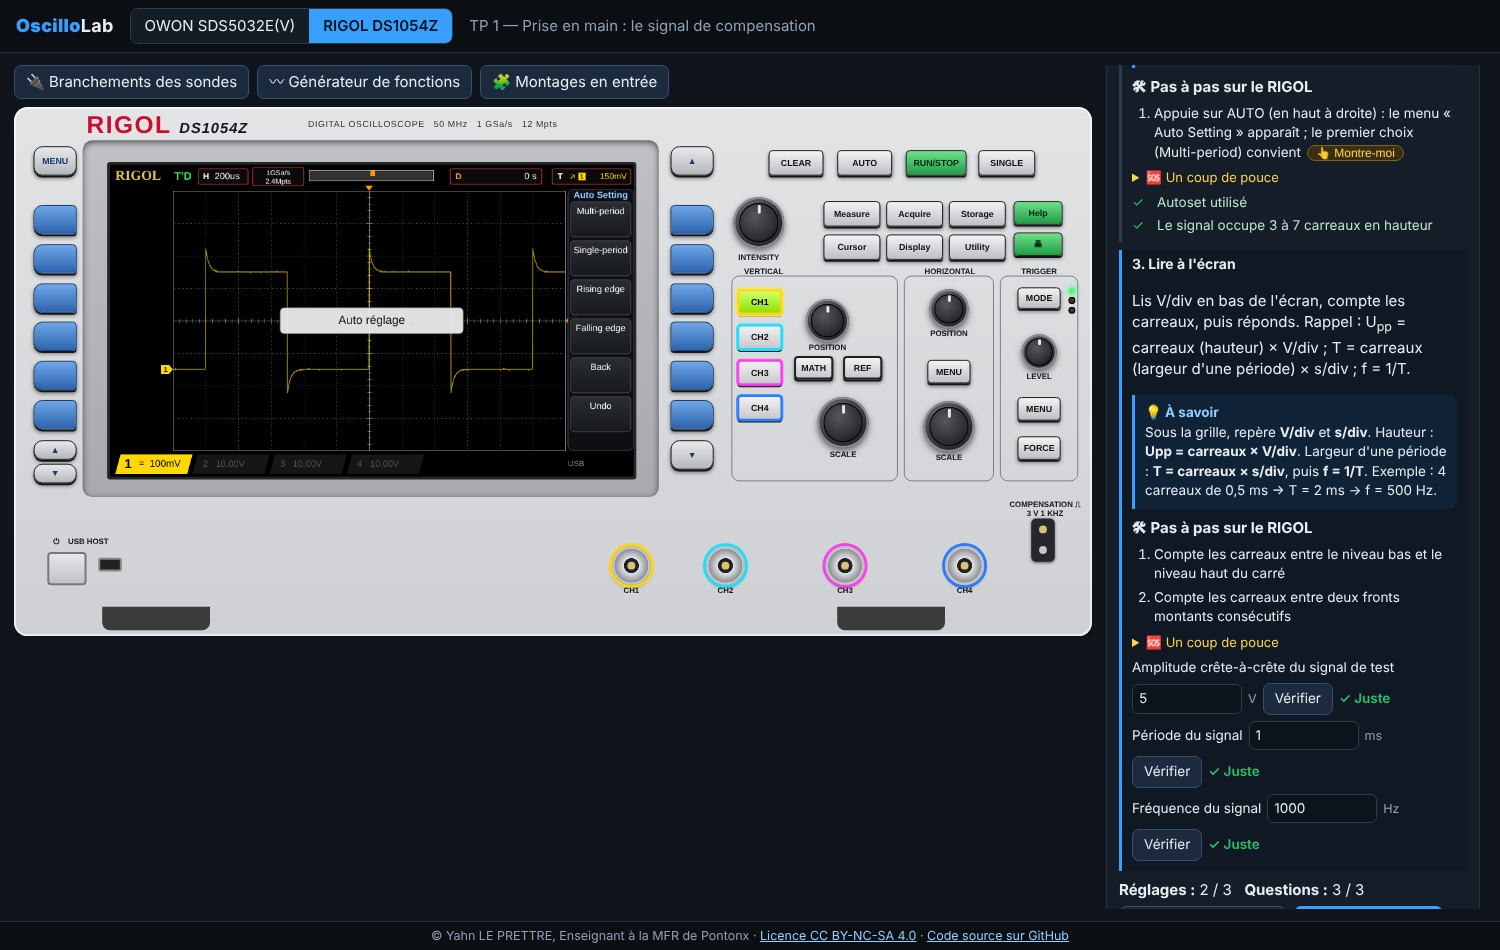
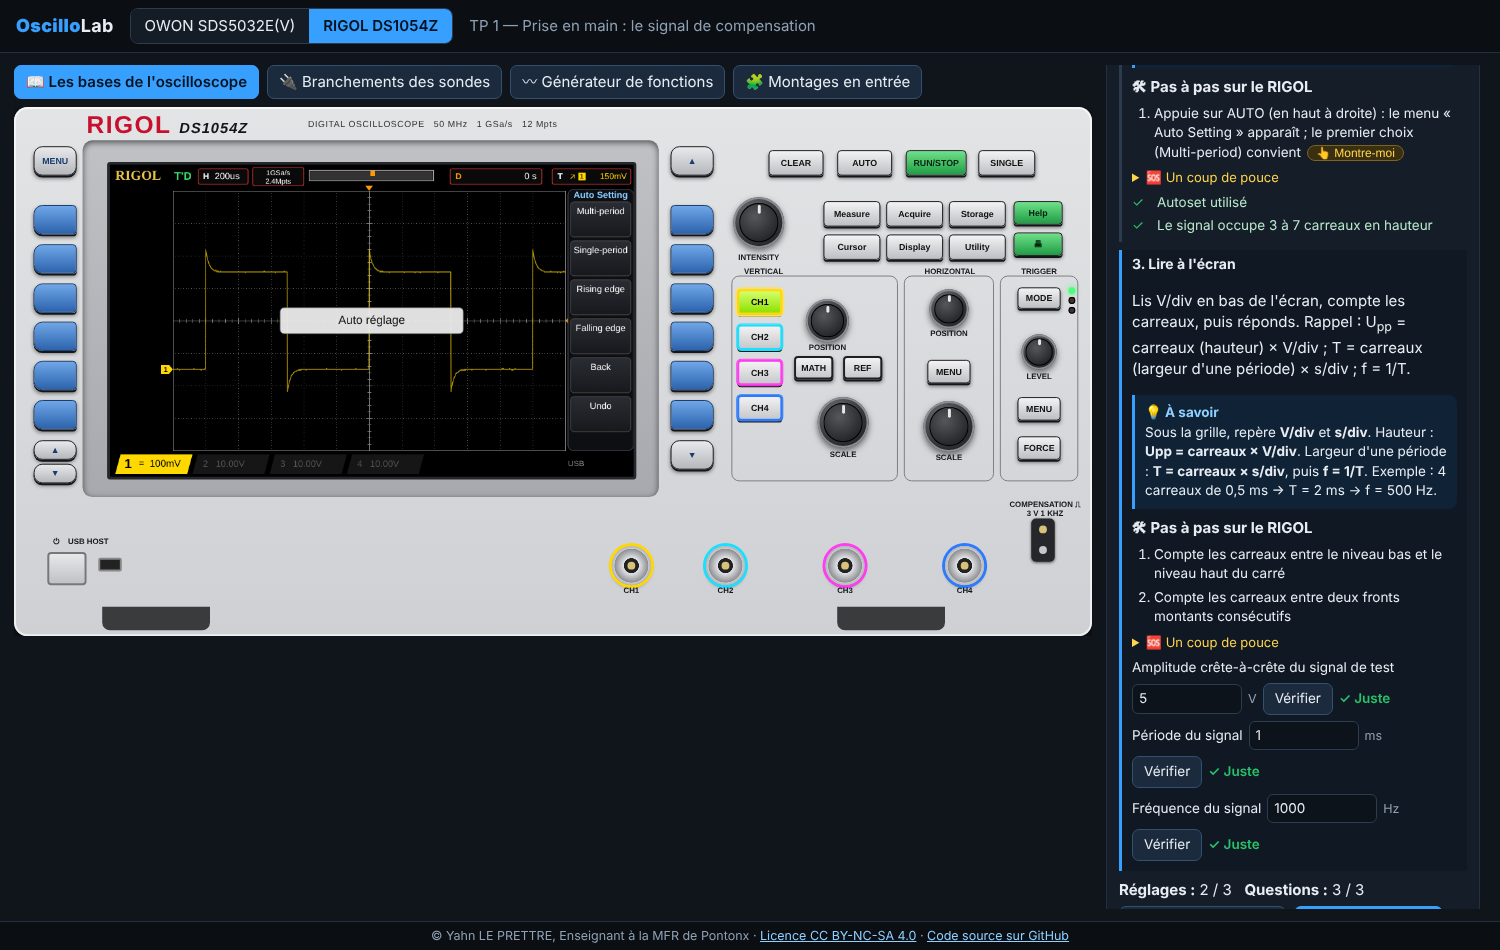
Les bases de l'oscilloscope : bouton dans la barre au-dessus de l'oscilloscope et en haut de la liste des TP
Claude-Session: https://claude.ai/code/session_018Ln2Xo12prChdSPrkdSn9D

Changed region(s): [[0.0, 0.0611, 0.6133, 0.1221]]

diff --git a/dist/oscillolab.html b/dist/oscillolab.html
@@ -136,7 +136,7 @@ details.hint { margin:6px 0; font-size:13px; } details.hint summary { cursor:poi
 <header class="top"><h1><b>Oscillo</b>Lab</h1>
 <div class="seg" id="devSeg"><button data-d="owon" class="on">OWON SDS5032E(V)</button><button data-d="rigol">RIGOL DS1054Z</button></div>
 <span id="tpName" style="color:#8fa0b3"></span></header>
-<main><div><div id="benchBar"><button class="btn" data-p="wire">🔌 Branchements des sondes</button><button class="btn" data-p="gbf">〰 Générateur de fonctions</button><button class="btn" data-p="mont">🧩 Montages en entrée</button></div>
+<main><div><div id="benchBar"><button class="btn pri" data-a="lessons">📖 Les bases de l'oscilloscope</button><button class="btn" data-p="wire">🔌 Branchements des sondes</button><button class="btn" data-p="gbf">〰 Générateur de fonctions</button><button class="btn" data-p="mont">🧩 Montages en entrée</button></div>
 <div id="benchPop"><div data-p="wire"></div><div data-p="gbf"></div><div data-p="mont"></div></div>
 <div id="scopeWrap"><div id="scopeBox"></div></div></div>
 <aside id="side"><div id="tpPane"></div></aside></main>
@@ -1728,11 +1728,13 @@ OL.TPUI = function (parent, App) {
 };
 OL.TPUI.prototype.list = function () {
   const T = this, r = T.root; r.innerHTML = ''; T.cur = null; document.getElementById('tpName').textContent = '';
-  const c = E('div', 'card', r); E('h3', '', c, null, 'Travaux pratiques'); const L = E('div', 'tplist', c);
+  const c = E('div', 'card', r); E('h3', '', c, null, 'Travaux pratiques');
+  const top = E('div', 'row', c);
+  const ls = E('button', 'btn pri', top, null, '📖 Les bases de l\'oscilloscope (à lire avant le TP 1)'); ls.addEventListener('click', () => T.lessons());
+  const f = E('button', 'btn', top, null, 'Mode libre (tous les montages)');  f.addEventListener('click', () => { T.App.free(); });
+  const L = E('div', 'tplist', c);
   OL.TPS.forEach(tp => { const b = E('button', 'btn' + (T.done[tp.id] ? ' done' : ''), L, null, '<b>' + tp.n + '.</b> ' + tp.title + ' <span class="hint">— ' + tp.level + '</span>'); b.addEventListener('click', () => T.open(tp)); });
   E('div', 'hint', c, null, 'Chaque TP règle le banc d\'essai pour toi. Les cases se cochent toutes seules quand l\'oscilloscope est bien réglé ; les questions se corrigent automatiquement.');
-  const ls = E('button', 'btn pri', c, null, '📖 Les bases de l\'oscilloscope (à lire avant le TP 1)'); ls.style.marginTop = '8px'; ls.addEventListener('click', () => T.lessons());
-  const f = E('button', 'btn', c, null, 'Mode libre (tous les montages)'); f.style.marginLeft = '8px'; f.addEventListener('click', () => { T.App.free(); });
 };
 OL.TPUI.prototype.lessons = function () {
   const T = this, r = T.root; r.innerHTML = ''; T.cur = null; T.checkEls = [];
@@ -2215,13 +2217,14 @@ function loop(now) {
 g.addEventListener('DOMContentLoaded', () => {
   document.querySelectorAll('#devSeg button').forEach(b => b.addEventListener('click', () => { App.build(b.dataset.d, App.tp, App.seed); if (App.tp) App.tpui.render(); }));
   g.addEventListener('resize', () => App.fit());
-  const pop = $('#benchPop'); const show = k => { pop.classList.toggle('open', !!k); pop.querySelectorAll(':scope > div').forEach(d => { d.style.display = d.dataset.p === k ? '' : 'none'; }); document.querySelectorAll('#benchBar button').forEach(b => b.classList.toggle('pri', b.dataset.p === k)); App.pop = k; };
-  document.querySelectorAll('#benchBar button').forEach(b => b.addEventListener('click', e => { e.stopPropagation(); show(App.pop === b.dataset.p ? null : b.dataset.p); }));
+  const pop = $('#benchPop'); const show = k => { pop.classList.toggle('open', !!k); pop.querySelectorAll(':scope > div').forEach(d => { d.style.display = d.dataset.p === k ? '' : 'none'; }); document.querySelectorAll('#benchBar button[data-p]').forEach(b => b.classList.toggle('pri', b.dataset.p === k)); App.pop = k; };
+  document.querySelectorAll('#benchBar button[data-p]').forEach(b => b.addEventListener('click', e => { e.stopPropagation(); show(App.pop === b.dataset.p ? null : b.dataset.p); }));
   /* fenêtre déplaçable (par son titre) : on peut la ranger sur le côté pour garder l'écran visible */
   let drag = null;
   pop.addEventListener('pointerdown', e => { const h = e.target.closest('h3'); if (!h) return; const box = h.closest('#benchPop > div'); drag = { box, x: e.clientX, y: e.clientY, l: box.offsetLeft, t: box.offsetTop }; h.setPointerCapture(e.pointerId); h.style.cursor = 'grabbing'; });
   pop.addEventListener('pointermove', e => { if (!drag) return; drag.box.style.left = (drag.l + e.clientX - drag.x) + 'px'; drag.box.style.top = (drag.t + e.clientY - drag.y) + 'px'; });
   pop.addEventListener('pointerup', () => { drag = null; });
+  document.querySelector('#benchBar button[data-a=lessons]').addEventListener('click', e => { e.stopPropagation(); show(null); App.tpui.lessons(); document.getElementById('side').scrollTop = 0; });
   document.addEventListener('keydown', e => { if (e.key === 'Escape') show(null); });
   show(null);
   App.tpui = new OL.TPUI($('#tpPane'), App);

diff --git a/js/app.js b/js/app.js
@@ -47,13 +47,14 @@ function loop(now) {
 g.addEventListener('DOMContentLoaded', () => {
   document.querySelectorAll('#devSeg button').forEach(b => b.addEventListener('click', () => { App.build(b.dataset.d, App.tp, App.seed); if (App.tp) App.tpui.render(); }));
   g.addEventListener('resize', () => App.fit());
-  const pop = $('#benchPop'); const show = k => { pop.classList.toggle('open', !!k); pop.querySelectorAll(':scope > div').forEach(d => { d.style.display = d.dataset.p === k ? '' : 'none'; }); document.querySelectorAll('#benchBar button').forEach(b => b.classList.toggle('pri', b.dataset.p === k)); App.pop = k; };
-  document.querySelectorAll('#benchBar button').forEach(b => b.addEventListener('click', e => { e.stopPropagation(); show(App.pop === b.dataset.p ? null : b.dataset.p); }));
+  const pop = $('#benchPop'); const show = k => { pop.classList.toggle('open', !!k); pop.querySelectorAll(':scope > div').forEach(d => { d.style.display = d.dataset.p === k ? '' : 'none'; }); document.querySelectorAll('#benchBar button[data-p]').forEach(b => b.classList.toggle('pri', b.dataset.p === k)); App.pop = k; };
+  document.querySelectorAll('#benchBar button[data-p]').forEach(b => b.addEventListener('click', e => { e.stopPropagation(); show(App.pop === b.dataset.p ? null : b.dataset.p); }));
   /* fenêtre déplaçable (par son titre) : on peut la ranger sur le côté pour garder l'écran visible */
   let drag = null;
   pop.addEventListener('pointerdown', e => { const h = e.target.closest('h3'); if (!h) return; const box = h.closest('#benchPop > div'); drag = { box, x: e.clientX, y: e.clientY, l: box.offsetLeft, t: box.offsetTop }; h.setPointerCapture(e.pointerId); h.style.cursor = 'grabbing'; });
   pop.addEventListener('pointermove', e => { if (!drag) return; drag.box.style.left = (drag.l + e.clientX - drag.x) + 'px'; drag.box.style.top = (drag.t + e.clientY - drag.y) + 'px'; });
   pop.addEventListener('pointerup', () => { drag = null; });
+  document.querySelector('#benchBar button[data-a=lessons]').addEventListener('click', e => { e.stopPropagation(); show(null); App.tpui.lessons(); document.getElementById('side').scrollTop = 0; });
   document.addEventListener('keydown', e => { if (e.key === 'Escape') show(null); });
   show(null);
   App.tpui = new OL.TPUI($('#tpPane'), App);

diff --git a/js/tp.js b/js/tp.js
@@ -37,11 +37,13 @@ OL.TPUI = function (parent, App) {
 };
 OL.TPUI.prototype.list = function () {
   const T = this, r = T.root; r.innerHTML = ''; T.cur = null; document.getElementById('tpName').textContent = '';
-  const c = E('div', 'card', r); E('h3', '', c, null, 'Travaux pratiques'); const L = E('div', 'tplist', c);
+  const c = E('div', 'card', r); E('h3', '', c, null, 'Travaux pratiques');
+  const top = E('div', 'row', c);
+  const ls = E('button', 'btn pri', top, null, '📖 Les bases de l\'oscilloscope (à lire avant le TP 1)'); ls.addEventListener('click', () => T.lessons());
+  const f = E('button', 'btn', top, null, 'Mode libre (tous les montages)');  f.addEventListener('click', () => { T.App.free(); });
+  const L = E('div', 'tplist', c);
   OL.TPS.forEach(tp => { const b = E('button', 'btn' + (T.done[tp.id] ? ' done' : ''), L, null, '<b>' + tp.n + '.</b> ' + tp.title + ' <span class="hint">— ' + tp.level + '</span>'); b.addEventListener('click', () => T.open(tp)); });
   E('div', 'hint', c, null, 'Chaque TP règle le banc d\'essai pour toi. Les cases se cochent toutes seules quand l\'oscilloscope est bien réglé ; les questions se corrigent automatiquement.');
-  const ls = E('button', 'btn pri', c, null, '📖 Les bases de l\'oscilloscope (à lire avant le TP 1)'); ls.style.marginTop = '8px'; ls.addEventListener('click', () => T.lessons());
-  const f = E('button', 'btn', c, null, 'Mode libre (tous les montages)'); f.style.marginLeft = '8px'; f.addEventListener('click', () => { T.App.free(); });
 };
 OL.TPUI.prototype.lessons = function () {
   const T = this, r = T.root; r.innerHTML = ''; T.cur = null; T.checkEls = [];

diff --git a/index.html b/index.html
@@ -6,7 +6,7 @@
 <header class="top"><h1><b>Oscillo</b>Lab</h1>
 <div class="seg" id="devSeg"><button data-d="owon" class="on">OWON SDS5032E(V)</button><button data-d="rigol">RIGOL DS1054Z</button></div>
 <span id="tpName" style="color:#8fa0b3"></span></header>
-<main><div><div id="benchBar"><button class="btn" data-p="wire">🔌 Branchements des sondes</button><button class="btn" data-p="gbf">〰 Générateur de fonctions</button><button class="btn" data-p="mont">🧩 Montages en entrée</button></div>
+<main><div><div id="benchBar"><button class="btn pri" data-a="lessons">📖 Les bases de l'oscilloscope</button><button class="btn" data-p="wire">🔌 Branchements des sondes</button><button class="btn" data-p="gbf">〰 Générateur de fonctions</button><button class="btn" data-p="mont">🧩 Montages en entrée</button></div>
 <div id="benchPop"><div data-p="wire"></div><div data-p="gbf"></div><div data-p="mont"></div></div>
 <div id="scopeWrap"><div id="scopeBox"></div></div></div>
 <aside id="side"><div id="tpPane"></div></aside></main>
